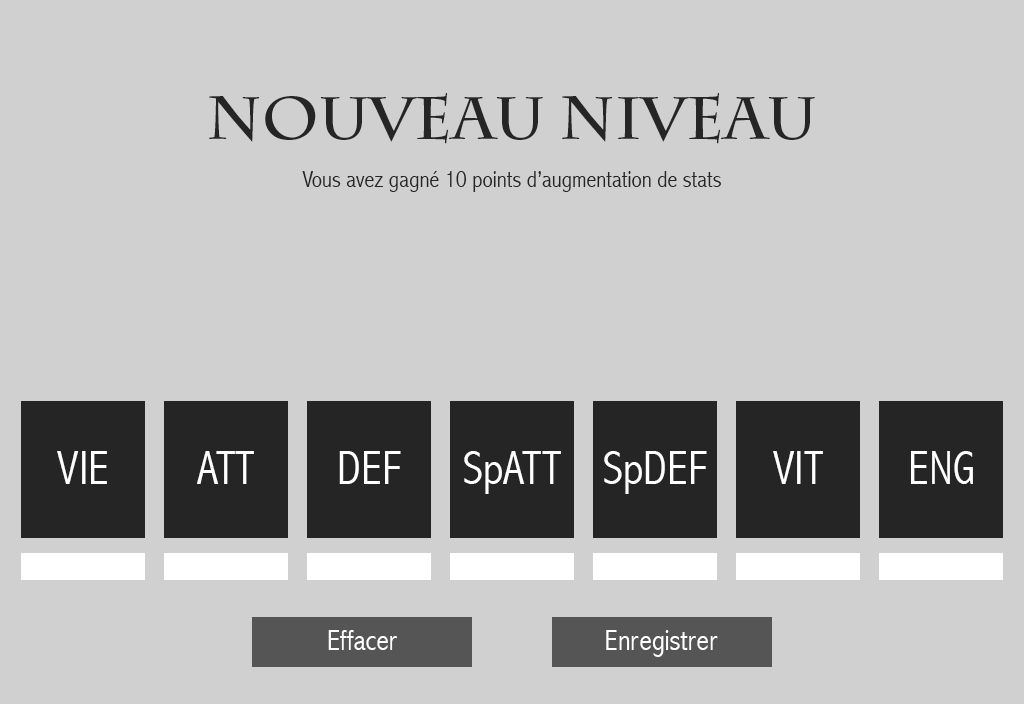
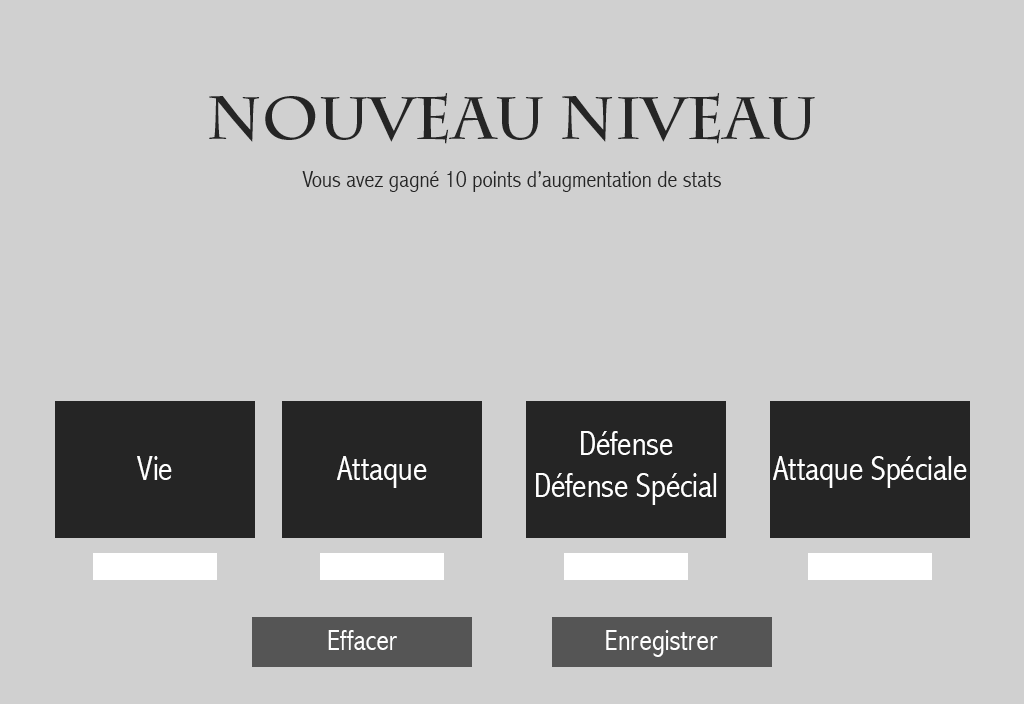
Merge origin/master
Conflicts:
	.gitignore
	build.xml
	lib/CopyLibs/org-netbeans-modules-java-j2seproject-copylibstask.jar
	lib/jinput.jar
	lib/lwjgl.jar
	lib/lwjgl_util.jar
	lib/nblibraries.properties
	lib/slick.jar
	manifest.mf
	nbproject/build-impl.xml
	nbproject/genfiles.properties
	nbproject/project.properties
	nbproject/project.xml
	src/ca/qc/bdeb/info204/Game.java
	src/entities/Entity.java
	src/entities/Mob.java
	src/entities/Player.java
	src/gameEngine/Model.java
	src/maps/MiniMap.java
	src/maps/WorldMap.java
	src/playerEngine/EquipementInventory.java
	src/playerEngine/Inventory.java
	src/playerEngine/PlayerEngine.java
	src/res/maps/New folder/ItemsAndEffects.zip
	src/res/maps/New folder/ItemsAndEffects/credits.txt
	src/res/maps/New folder/ItemsAndEffects/effects.png
	src/res/maps/New folder/ItemsAndEffects/items1.png
	src/res/maps/New folder/LPC Base Assets.zip
	src/res/maps/New folder/LPC Base Assets/CREDITS.TXT
	src/res/maps/New folder/LPC Base Assets/UI/frame.gif
	src/res/maps/New folder/LPC Base Assets/UI/lpc_home_cup.gif
	src/res/maps/New folder/LPC Base Assets/UI/shadow.png
	src/res/maps/New folder/LPC Base Assets/sprites/monsters/bat.png
	src/res/maps/New folder/LPC Base Assets/sprites/monsters/bee.png
	src/res/maps/New folder/LPC Base Assets/sprites/monsters/big_worm.png
	src/res/maps/New folder/LPC Base Assets/sprites/monsters/eyeball.png
	src/res/maps/New folder/LPC Base Assets/sprites/monsters/ghost.png
[…]

Changed region(s): [[0.125, 0.5625, 1.0, 0.8438], [0.0, 0.5625, 0.0938, 0.8438]]

diff --git a/src/statesOfGame/LevelUpScreen.java b/src/statesOfGame/LevelUpScreen.java
@@ -51,8 +51,8 @@ public class LevelUpScreen extends BasicGameState {
         g.setFont(ufont50);
         g.drawString(""+CharacterStatsManager.getInstance().getLvlBoost(), 475, 260);
         g.setFont(ufont24);
-        for (int i = 0; i < MAX_STATS; i++) {
-            g.drawString(""+CharacterStatsManager.getInstance().getStats()[i] + "+" + CharacterStatsManager.getInstance().getStatsUpgrade()[i], 52+(143*i), 555);
+        for (int i = 0; i < 4; i++) {
+            g.drawString(""+CharacterStatsManager.getInstance().getStats()[i] + "+" + CharacterStatsManager.getInstance().getStatsUpgrade()[i], 127+(235*i), 555);
         }
     }
 
@@ -64,95 +64,58 @@ public class LevelUpScreen extends BasicGameState {
         int mouseY = Mouse.getY();
         
         //si le joueur clique sur "vie"
-        if((mouseX > 21 && mouseX < 145) && (mouseY>166 && mouseY<303)){
+        if((mouseX > 55 && mouseX < 255) && (mouseY>166 && mouseY<303)){
             //clique droit -> augementer la stat
             if((CharacterStatsManager.getInstance().getLvlBoost() > 0) && (input.isMousePressed(0))){
-                    CharacterStatsManager.getInstance().buffStat(0);
+                    CharacterStatsManager.getInstance().buffStat(0,true);
                     CharacterStatsManager.getInstance().setHp(CharacterStatsManager.getInstance().getHp()+1);
               //clique gauche -> diminuer la stat
             } else if ((CharacterStatsManager.getInstance().getLvlBoost() < CharacterStatsManager.getInstance().NB_LVL_BOOST) 
                     && (CharacterStatsManager.getInstance().getStatsUpgrade()[0] > 0) 
                     && (input.isMousePressed(1))){
-                    CharacterStatsManager.getInstance().nerfStat(0);
+                    CharacterStatsManager.getInstance().nerfStat(0,true);
                     CharacterStatsManager.getInstance().setHp(CharacterStatsManager.getInstance().getHp()-1);
             }
         }
         
         //si le joueur clique sur "att"
-        if((mouseX > 164 && mouseX < 288) && (mouseY>166 && mouseY<303)){
+        if((mouseX > 282 && mouseX < 482) && (mouseY>166 && mouseY<303)){
             //clique droit -> augementer la stat
             if((CharacterStatsManager.getInstance().getLvlBoost() > 0) && (input.isMousePressed(0))){
-                    CharacterStatsManager.getInstance().buffStat(1);
+                    CharacterStatsManager.getInstance().buffStat(1,true);
               //clique gauche -> diminuer la stat
             } else if ((CharacterStatsManager.getInstance().getLvlBoost() < CharacterStatsManager.getInstance().NB_LVL_BOOST) 
                     && (CharacterStatsManager.getInstance().getStatsUpgrade()[1] > 0) 
                     && (input.isMousePressed(1))){
-                    CharacterStatsManager.getInstance().nerfStat(1);
+                    CharacterStatsManager.getInstance().nerfStat(1,true);
             }
         }
         
-        //si le joueur clique sur "def"
-        if((mouseX > 307 && mouseX < 431) && (mouseY>166 && mouseY<303)){
+        //si le joueur clique sur "def spdef"
+        if((mouseX > 526 && mouseX < 726) && (mouseY>166 && mouseY<303)){
             //clique droit -> augementer la stat
             if((CharacterStatsManager.getInstance().getLvlBoost() > 0) && (input.isMousePressed(0))){
-                    CharacterStatsManager.getInstance().buffStat(2);
+                    CharacterStatsManager.getInstance().buffStat(2,true);
+                    CharacterStatsManager.getInstance().buffStat(4,false);
               //clique gauche -> diminuer la stat
             } else if ((CharacterStatsManager.getInstance().getLvlBoost() < CharacterStatsManager.getInstance().NB_LVL_BOOST) 
                     && (CharacterStatsManager.getInstance().getStatsUpgrade()[2] > 0) 
                     && (input.isMousePressed(1))){
-                    CharacterStatsManager.getInstance().nerfStat(2);
+                    CharacterStatsManager.getInstance().nerfStat(2,true);
+                    CharacterStatsManager.getInstance().nerfStat(4,false);
             }
         }
         
         //si le joueur clique sur "spAtt"
-        if((mouseX > 450 && mouseX < 574) && (mouseY>166 && mouseY<303)){
+        if((mouseX > 770 && mouseX < 970) && (mouseY>166 && mouseY<303)){
             //clique droit -> augementer la stat
             if((CharacterStatsManager.getInstance().getLvlBoost() > 0) && (input.isMousePressed(0))){
-                    CharacterStatsManager.getInstance().buffStat(3);
+                    CharacterStatsManager.getInstance().buffStat(3,true);
               //clique gauche -> diminuer la stat
             } else if ((CharacterStatsManager.getInstance().getLvlBoost() < CharacterStatsManager.getInstance().NB_LVL_BOOST) 
                     && (CharacterStatsManager.getInstance().getStatsUpgrade()[3] > 0) 
                     && (input.isMousePressed(1))){
-                    CharacterStatsManager.getInstance().nerfStat(3);
-            }
-        }
-        
-        //si le joueur clique sur "spDef"
-        if((mouseX > 593 && mouseX < 717) && (mouseY>166 && mouseY<303)){
-            //clique droit -> augementer la stat
-            if((CharacterStatsManager.getInstance().getLvlBoost() > 0) && (input.isMousePressed(0))){
-                    CharacterStatsManager.getInstance().buffStat(4);
-              //clique gauche -> diminuer la stat
-            } else if ((CharacterStatsManager.getInstance().getLvlBoost() < CharacterStatsManager.getInstance().NB_LVL_BOOST) 
-                    && (CharacterStatsManager.getInstance().getStatsUpgrade()[4] > 0) 
-                    && (input.isMousePressed(1))){
-                    CharacterStatsManager.getInstance().nerfStat(4);
-            }
-        }
-        
-        //si le joueur clique sur "vit"
-        if((mouseX > 736 && mouseX < 860) && (mouseY>166 && mouseY<303)){
-            //clique droit -> augementer la stat
-            if((CharacterStatsManager.getInstance().getLvlBoost() > 0) && (input.isMousePressed(0))){
-                    CharacterStatsManager.getInstance().buffStat(5);
-              //clique gauche -> diminuer la stat
-            } else if ((CharacterStatsManager.getInstance().getLvlBoost() < CharacterStatsManager.getInstance().NB_LVL_BOOST) 
-                    && (CharacterStatsManager.getInstance().getStatsUpgrade()[5] > 0) 
-                    && (input.isMousePressed(1))){
-                    CharacterStatsManager.getInstance().nerfStat(5);
-            }
-        }
-        
-        //si le joueur clique sur "eng"
-        if((mouseX > 879 && mouseX < 1003) && (mouseY>166 && mouseY<303)){
-            //clique droit -> augementer la stat
-            if((CharacterStatsManager.getInstance().getLvlBoost() > 0) && (input.isMousePressed(0))){
-                    CharacterStatsManager.getInstance().buffStat(6);
-              //clique gauche -> diminuer la stat
-            } else if ((CharacterStatsManager.getInstance().getLvlBoost() < CharacterStatsManager.getInstance().NB_LVL_BOOST) 
-                    && (CharacterStatsManager.getInstance().getStatsUpgrade()[6] > 0) 
-                    && (input.isMousePressed(1))){
-                    CharacterStatsManager.getInstance().nerfStat(6);
+                    CharacterStatsManager.getInstance().nerfStat(3,true);
             }
         }
         

diff --git a/src/playerEngine/CharacterStatsManager.java b/src/playerEngine/CharacterStatsManager.java
@@ -74,26 +74,33 @@ public class CharacterStatsManager {
             exp = 0;
             expNeeded = (int) ((float) expNeeded * 1.84);
             level++;
-            nbLvlBoost += 10;
+            nbLvlBoost += NB_LVL_BOOST;
             lvlIsUp = true;
     }
     
-    public void buffStat(int index){
+    public void buffStat(int index, boolean onlyOnce){
+        System.out.println(index);
         stats[index] += 1;
         statsUpgrade[index] += 1;
-        nbLvlBoost -= 1;
+        if(onlyOnce){
+            nbLvlBoost -= 1;
+        }
     }
     
-    public void nerfStat(int index){
+    public void nerfStat(int index, boolean onlyOnce){
         stats[index] -= 1;
         statsUpgrade[index] -= 1;
-        nbLvlBoost += 1;
+        if(onlyOnce){
+            nbLvlBoost += 1;
+        }
     }
     
     public void resetStats(){
-        for (int j = 0; j < MAX_STATS; j++) {
+        for (int j = 0; j < 5; j++) {
             stats[j] -= statsUpgrade[j];
-            nbLvlBoost += statsUpgrade[j];
+            if(j != 4){
+                nbLvlBoost += statsUpgrade[j];
+            }
             statsUpgrade[j] = 0;
         }
     }
